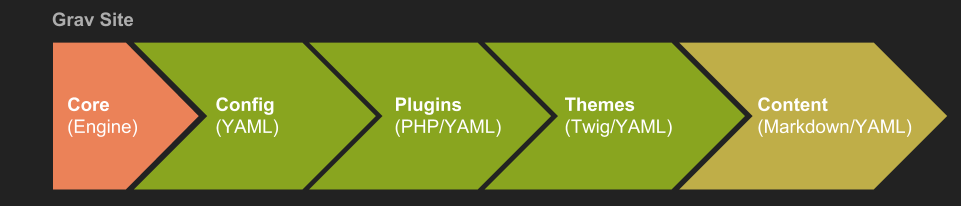
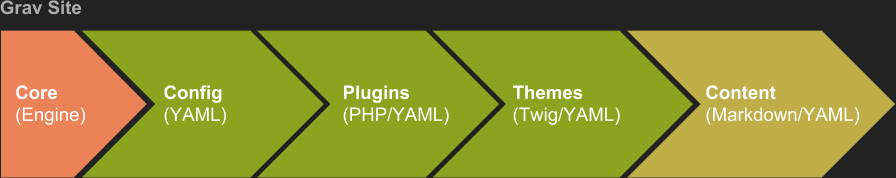
Updated slides and theme.

Changed region(s): [[0.0, 0.1685, 1.0, 1.0], [0.0, 0.0, 0.1562, 0.1404]]

diff --git a/slides.md b/slides.md
@@ -1,6 +1,5 @@
 autoscale: true
 
-[.header: color:, #FFFFFF, alignment(left)]
 # Delivering a Better Experience by Using the Open, Collaborative and Flexible Grav CMS<br>– Inside or Outside of your LMS<br>
 ### Paul D Hibbitts<br>[hibbittsdesign.org](https://hibbittsdesign.org/blog)<br>[@hibbittsdesign](https://twitter.com/hibbittsdesign)
 
@@ -16,7 +15,6 @@ autoscale: true
 ---
 
 [.background-color: #8fa33b]
-[.header: color:, #FFFFFF, alignment(left)]
 # What is Grav?
 
 ---
@@ -55,12 +53,14 @@ autoscale: true
 
 ---
 
-![fit](images/grav-conceptual-design.png)
+# Grav's Layered Conceptual Design
+<br><br><br>
+
+![inline](images/grav-conceptual-design.png)
 
 ---
 
 [.background-color: #8fa33b]
-[.header: color:, #FFFFFF, alignment(left)]
 # Open Course Hub Project
 
 ---
@@ -71,6 +71,7 @@ Built using Grav, Open Course Hub with Git Sync is designed to give tech-savvy e
 ---
 
 # Key Aspects of Grav Open Course Hub
+[.build-lists: true]
 [.text: line-height(.8)]
 - Streamlined setup and configuration (incl. Git Sync)
 - Supports open and collaborative content (via Git repository)
@@ -97,7 +98,8 @@ Built using Grav, Open Course Hub with Git Sync is designed to give tech-savvy e
 
 ---
 
-# What Skills are Required?
+# So, What Skills are Required?
+[.build-lists: true]
 [.text: line-height(.8)]
 - Intended for 'Tech-savvy' educators:
  - Code editor usage (e.g. Atom or Brackets)
@@ -162,14 +164,12 @@ Built using Grav, Open Course Hub with Git Sync is designed to give tech-savvy e
 
 ---
 
-[.header: color:, #FFFFFF, alignment(left)]
 # Enough Talk, Demo Time!
 ## [demo.hibbittsdesign.org/coursehub](http://demo.hibbittsdesign.org/coursehub)
 
 ---
 
 [.background-color: #8fa33b]
-[.header: color:, #FFFFFF, alignment(left)]
 # Other Open-related Grav Projects
 
 ---
